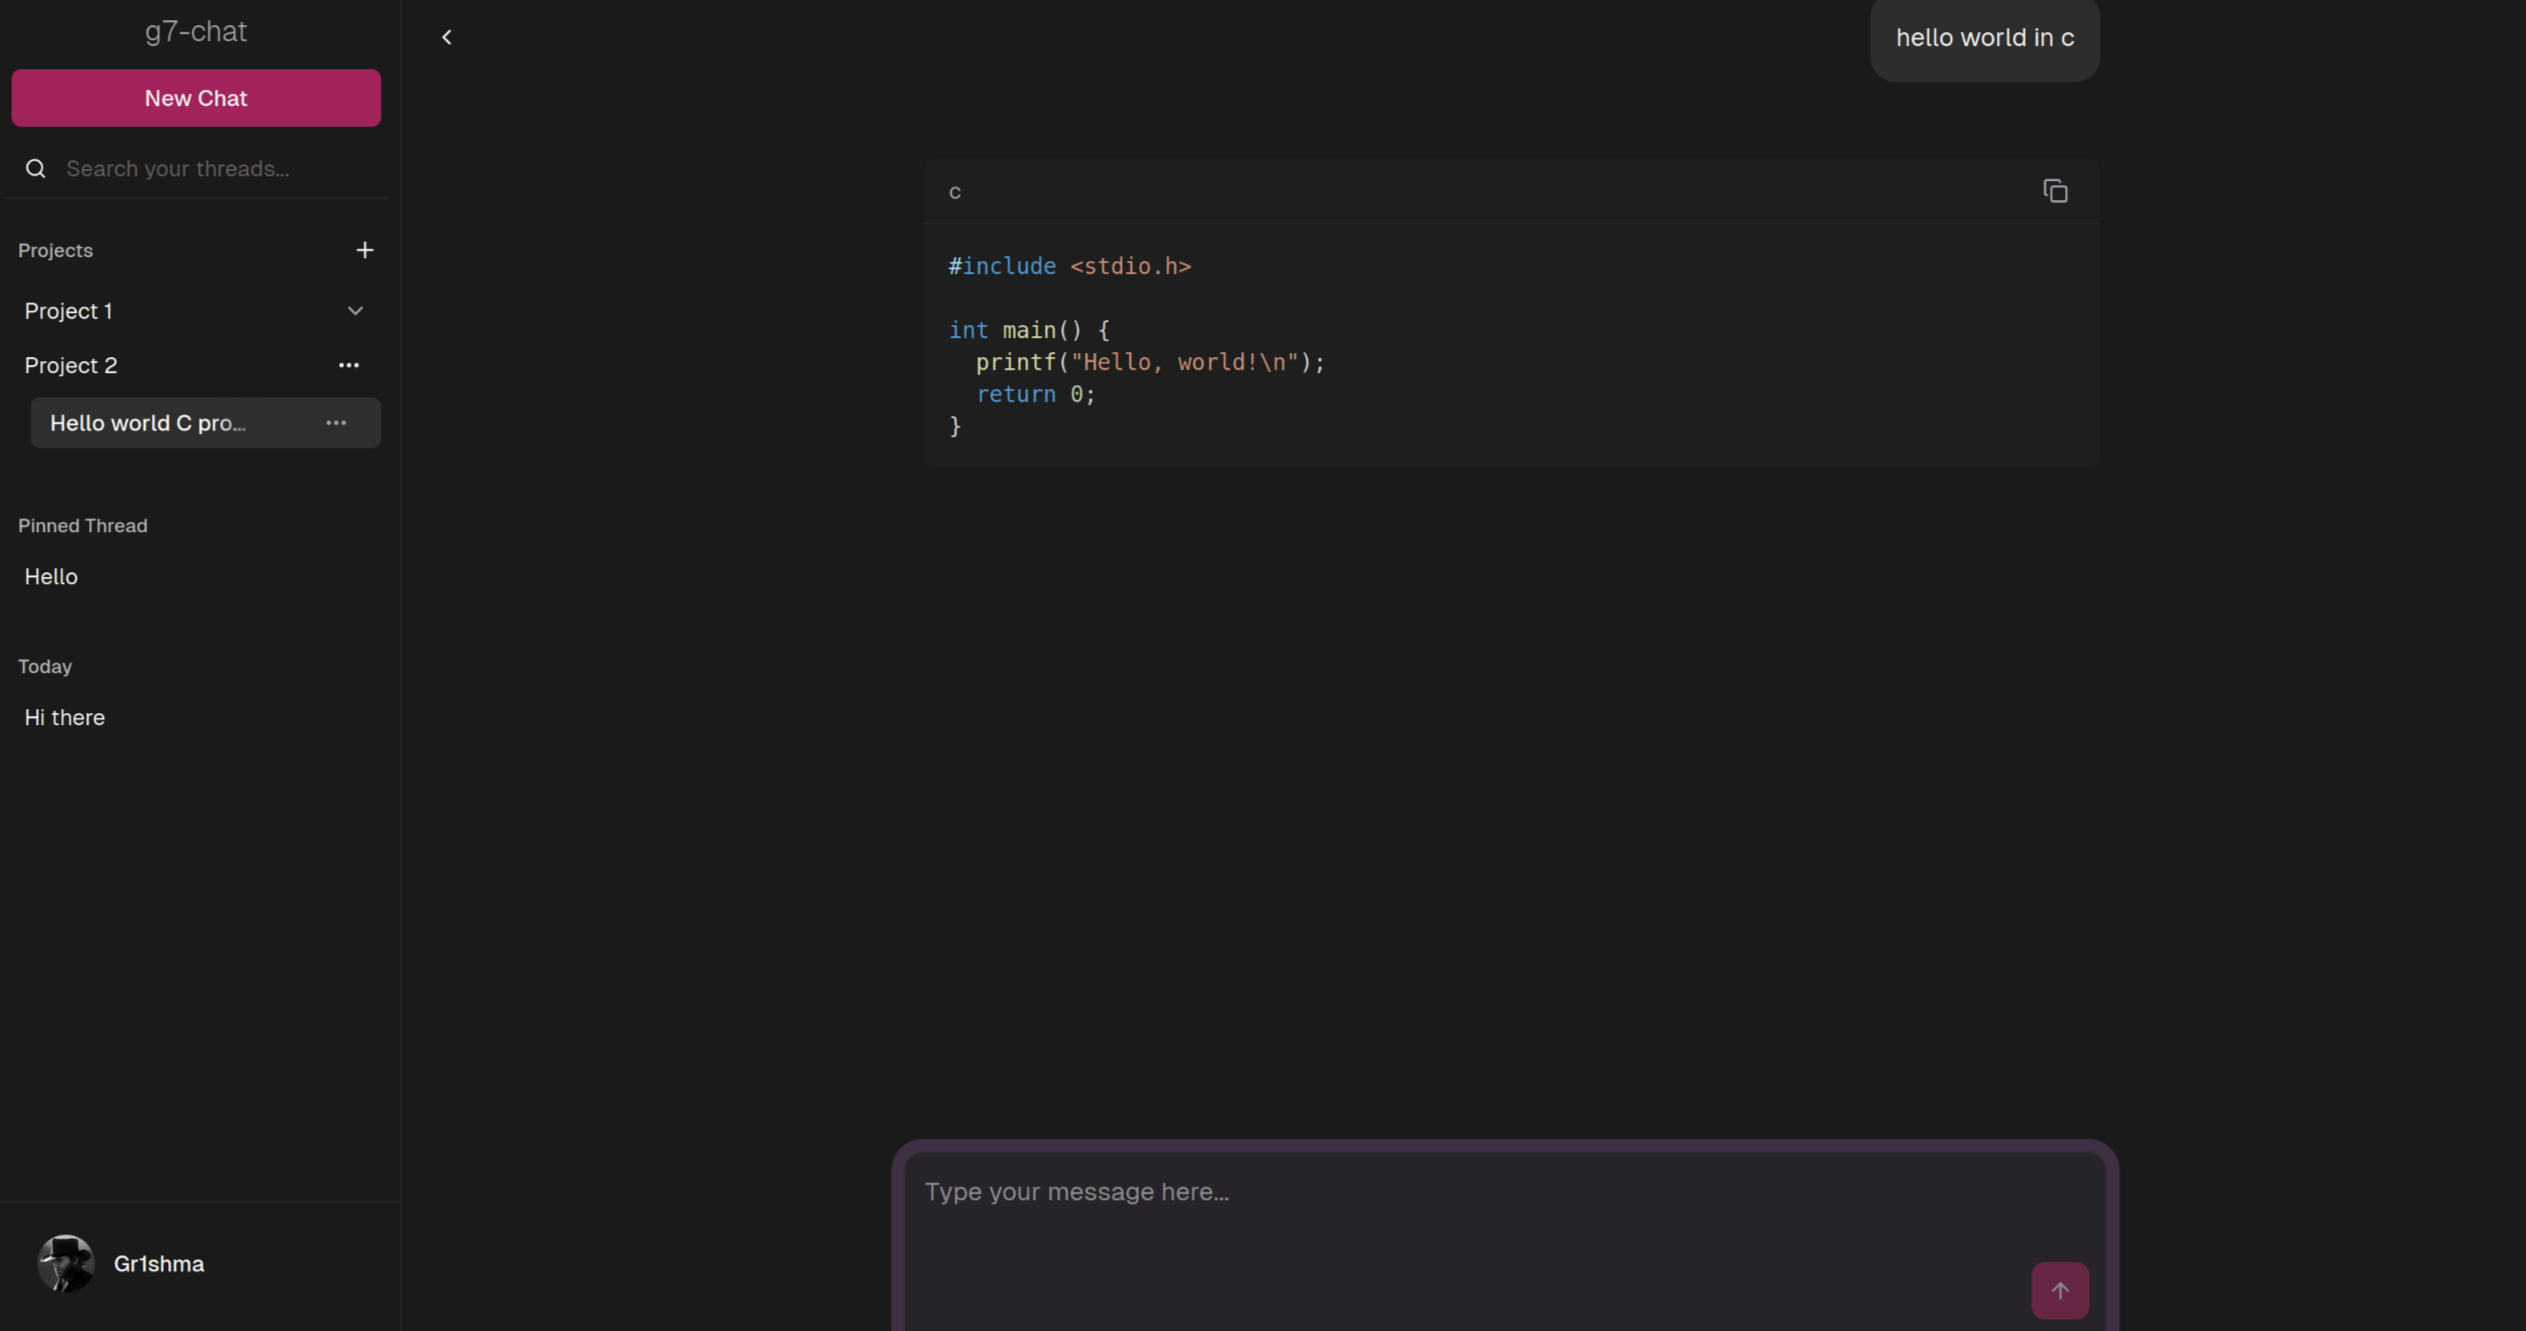
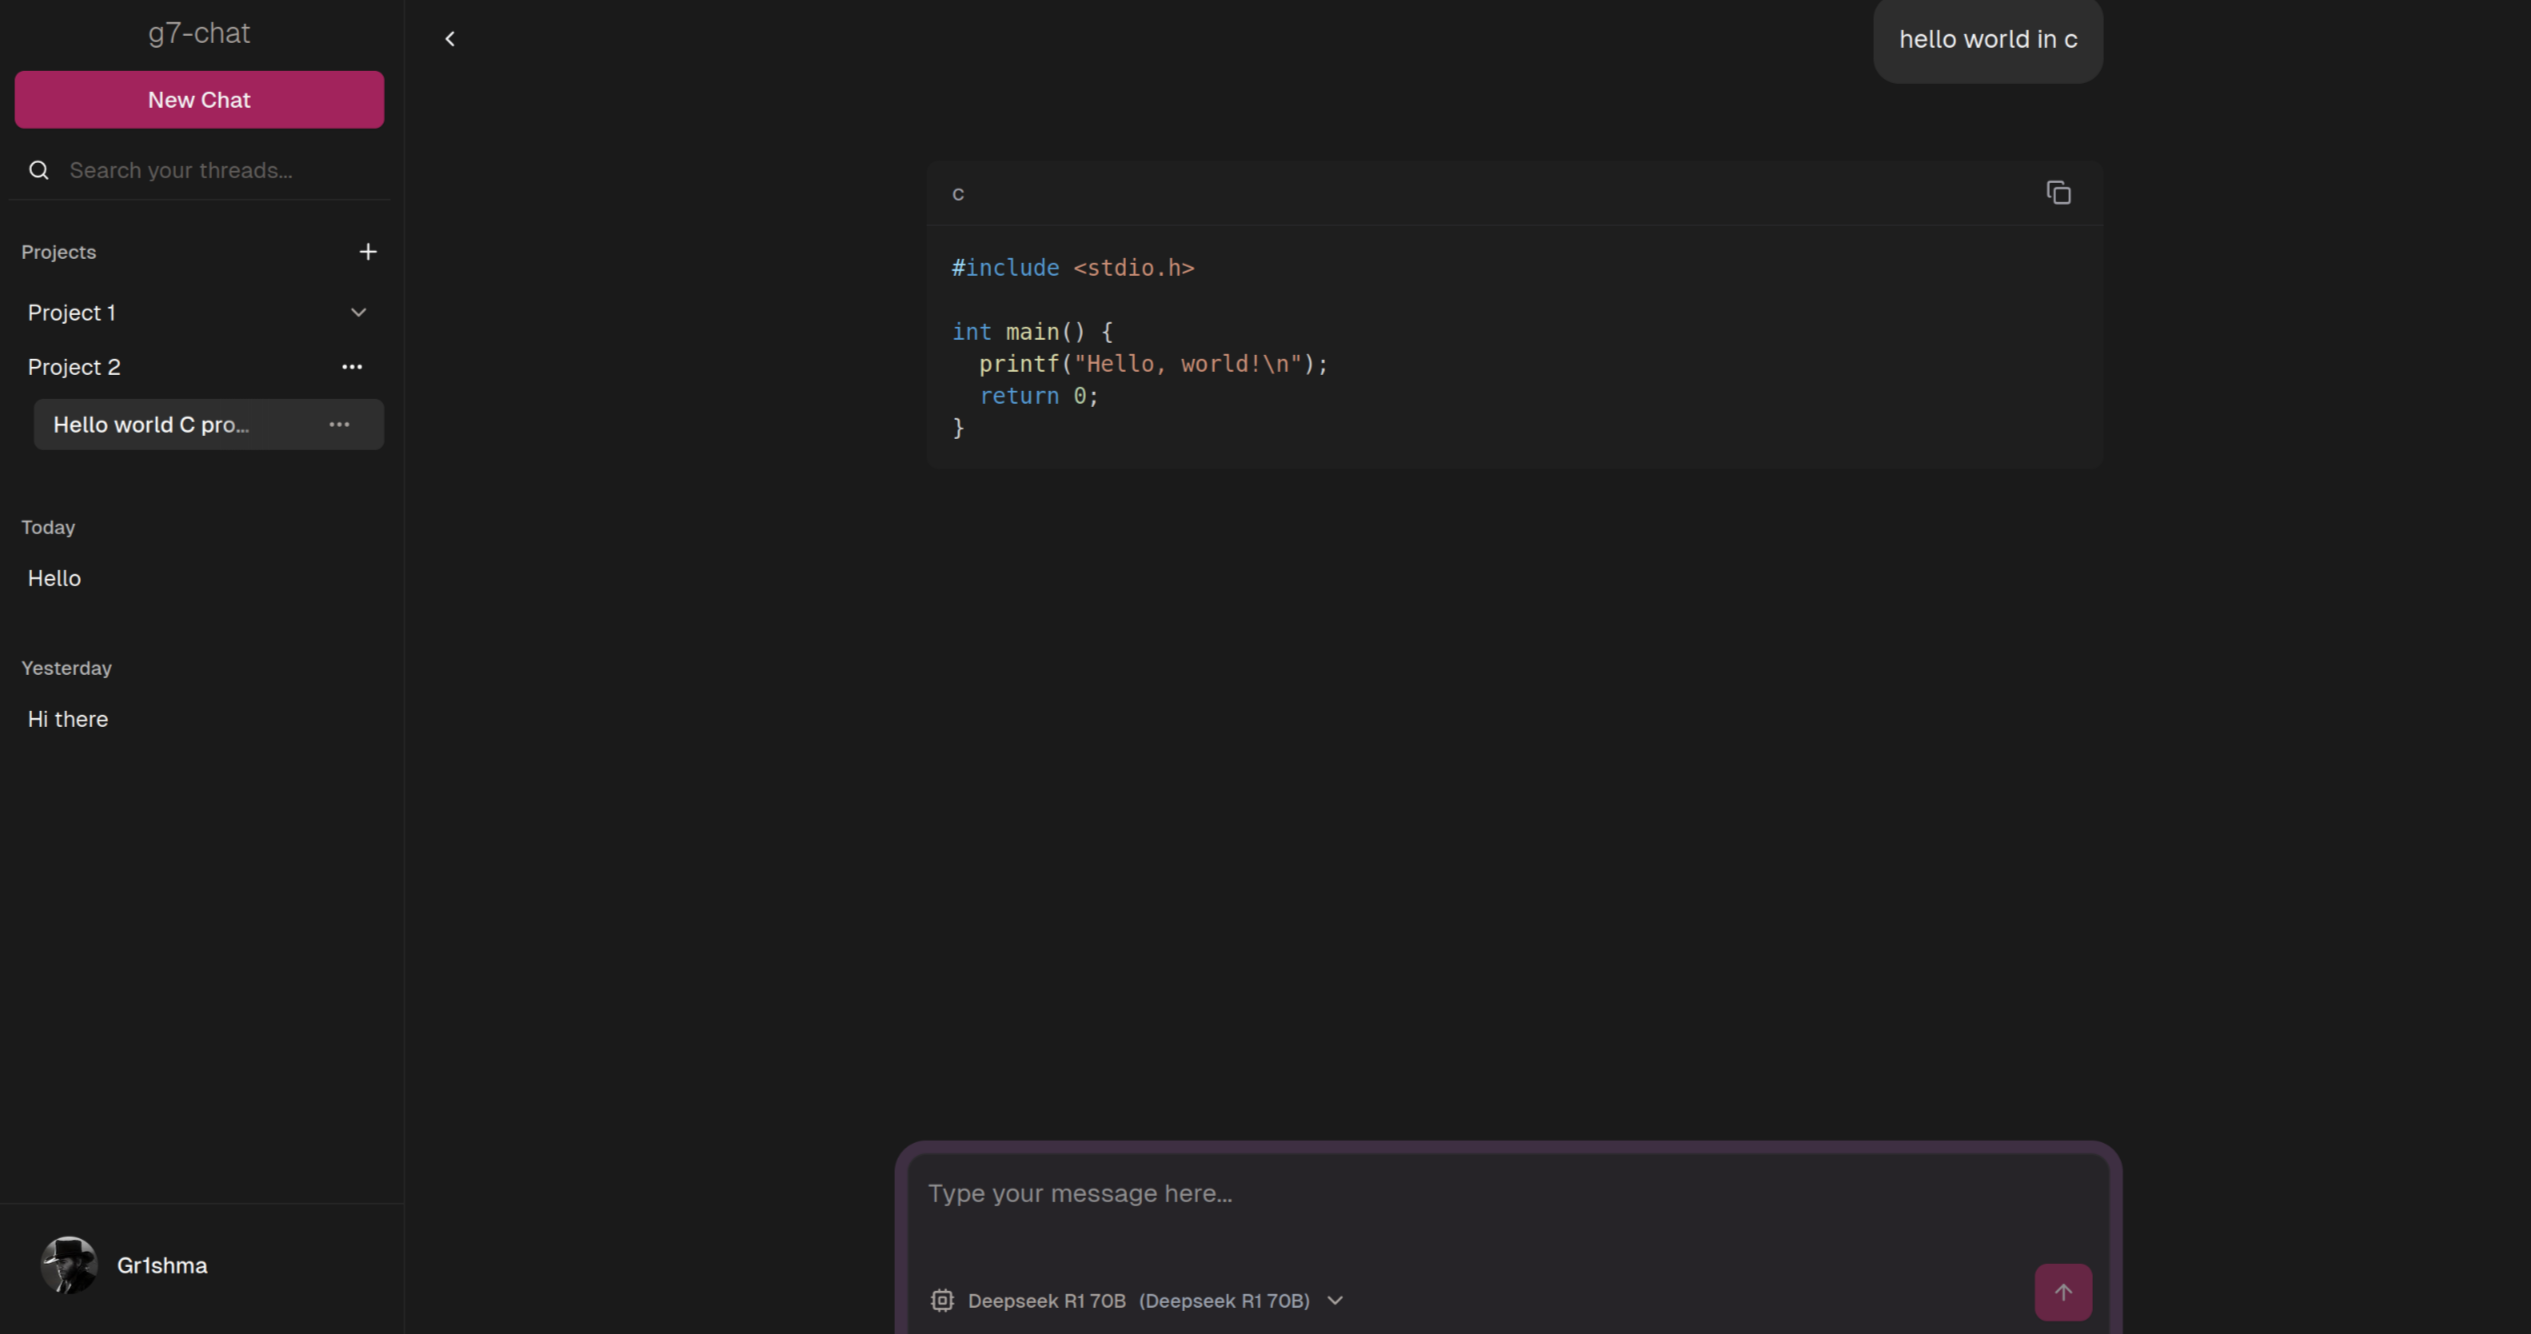
chore: updated readme and preview message

diff --git a/src/server/api/routers/thread.ts b/src/server/api/routers/thread.ts
@@ -17,7 +17,7 @@ export const threadRouter = createTRPCRouter({
                     .from(threads_table)
                     .where(eq(threads_table.id, input));
                 return thread;
-            } catch (error) {
+            } catch {
                 throw new TRPCError({
                     code: "INTERNAL_SERVER_ERROR",
                     message: "Failed to get thread",
@@ -77,7 +77,7 @@ export const threadRouter = createTRPCRouter({
                             ? { id: lastItem.id, updatedAt: lastItem.updatedAt }
                             : null,
                 };
-            } catch (error) {
+            } catch {
                 throw new TRPCError({
                     code: "INTERNAL_SERVER_ERROR",
                     message: "Failed to fetch threads",
@@ -104,7 +104,7 @@ export const threadRouter = createTRPCRouter({
                     title: input.title,
                     projectId: input.projectId,
                 });
-            } catch (error) {
+            } catch {
                 throw new TRPCError({
                     code: "INTERNAL_SERVER_ERROR",
                     message: "Failed to save thread",
@@ -142,7 +142,7 @@ export const threadRouter = createTRPCRouter({
                         message: "Thread not found or unauthorized",
                     });
                 }
-            } catch (error) {
+            } catch {
                 throw new TRPCError({
                     code: "INTERNAL_SERVER_ERROR",
                     message: "Failed to change thread title",
@@ -187,7 +187,7 @@ export const threadRouter = createTRPCRouter({
                         message: "Thread not found or unauthorized",
                     });
                 }
-            } catch (error) {
+            } catch {
                 throw new TRPCError({
                     code: "INTERNAL_SERVER_ERROR",
                     message: "Failed to change projectId of thread",
@@ -226,7 +226,7 @@ export const threadRouter = createTRPCRouter({
                         message: "Thread not found or unauthorized",
                     });
                 }
-            } catch (error) {
+            } catch {
                 throw new TRPCError({
                     code: "INTERNAL_SERVER_ERROR",
                     message: "Failed to toggle pin of thread",
@@ -271,7 +271,7 @@ export const threadRouter = createTRPCRouter({
                         message: "Thread not found or unauthorized",
                     });
                 }
-            } catch (error) {
+            } catch {
                 throw new TRPCError({
                     code: "INTERNAL_SERVER_ERROR",
                     message: "Failed to toggle visibility of thread",
@@ -297,7 +297,7 @@ export const threadRouter = createTRPCRouter({
                             eq(threads_table.userId, userId)
                         )
                     );
-            } catch (error) {
+            } catch {
                 throw new TRPCError({
                     code: "INTERNAL_SERVER_ERROR",
                     message: "Failed to delete thread",

diff --git a/src/server/api/routers/project.ts b/src/server/api/routers/project.ts
@@ -20,7 +20,7 @@ export const projectRouter = createTRPCRouter({
                 .orderBy(asc(projects_table.updatedAt));
 
             return projects;
-        } catch (error) {
+        } catch {
             throw new TRPCError({
                 code: "INTERNAL_SERVER_ERROR",
                 message: "Failed to fetch projects",
@@ -42,7 +42,7 @@ export const projectRouter = createTRPCRouter({
                     title,
                     userId: session.user.id,
                 });
-            } catch (error) {
+            } catch {
                 throw new TRPCError({
                     code: "INTERNAL_SERVER_ERROR",
                     message: "Failed to create project",
@@ -91,7 +91,7 @@ export const projectRouter = createTRPCRouter({
                             eq(projects_table.userId, userId)
                         )
                     );
-            } catch (error) {
+            } catch {
                 throw new TRPCError({
                     code: "INTERNAL_SERVER_ERROR",
                     message: "Failed to delete project",
@@ -129,7 +129,7 @@ export const projectRouter = createTRPCRouter({
                         message: "Project not found or unauthorized",
                     });
                 }
-            } catch (error) {
+            } catch {
                 throw new TRPCError({
                     code: "INTERNAL_SERVER_ERROR",
                     message: "Failed to change title of project",

diff --git a/src/server/api/routers/message.ts b/src/server/api/routers/message.ts
@@ -19,7 +19,7 @@ export const messageRouter = createTRPCRouter({
                     .orderBy(asc(messages_table.createdAt));
 
                 return messages;
-            } catch (error) {
+            } catch {
                 throw new TRPCError({
                     code: "INTERNAL_SERVER_ERROR",
                     message: "Failed to fetch messages for this thread",
@@ -46,7 +46,7 @@ export const messageRouter = createTRPCRouter({
                 }
 
                 return message;
-            } catch (error) {
+            } catch {
                 throw new TRPCError({
                     code: "INTERNAL_SERVER_ERROR",
                     message: "Failed to fetch message",

diff --git a/src/components/code-block.tsx b/src/components/code-block.tsx
@@ -1,6 +1,6 @@
 "use client";
 
-import { CircleCheck, CopyCheckIcon, Copy as CopyIcon } from "lucide-react";
+import { Copy as CopyIcon } from "lucide-react";
 import { Highlight, themes, Prism } from "prism-react-renderer";
 import { useToast } from "~/hooks/use-toast";
 
@@ -22,14 +22,12 @@ require("prismjs/components/prism-erlang");
 require("prismjs/components/prism-pascal");
 
 interface CodeBlockProps {
-    node: any;
     inline: boolean;
     className: string;
     children: any;
 }
 
 export function CodeBlock({
-    node,
     inline,
     className,
     children,

diff --git a/src/app/(thread)/chat/[threadId]/page.tsx b/src/app/(thread)/chat/[threadId]/page.tsx
@@ -27,7 +27,7 @@ export default async function Page({
 }: {
     params: { threadId: string };
 }) {
-    const { threadId } = await params;
+    const { threadId } = params;
 
     const thread = await api.thread.getThreadById(threadId);
 

diff --git a/src/app/api/chat/route.ts b/src/app/api/chat/route.ts
@@ -14,7 +14,6 @@ import {
 import {
     AIProviderSafe,
     getDefaultModel,
-    type ValidModelString,
 } from "~/lib/ai/providers";
 import { appRouter } from "~/server/api/root";
 import { db } from "~/server/db";

diff --git a/README.md b/README.md
@@ -220,7 +220,8 @@ g7-chat requires several environment variables to run properly, especially for a
 | `AUTH_GOOGLE_ID`               | Client ID for Google OAuth provider, used for user login via Google.         | Obtain from [Google Cloud Console Credentials](https://console.cloud.google.com/apis/credentials) |
 | `AUTH_GOOGLE_SECRET`           | Client Secret for Google OAuth provider.                                     | Obtain from Google Cloud Console alongside the client ID                                          |
 | `DATABASE_URL`                 | Connection string to your PostgreSQL database instance.                      | Format: `postgresql://username:password@host:port/database`                                       |
-| `GOOGLE_GENERATIVE_AI_API_KEY` | API key for accessing Vercel’s AI SDK, enabling AI-powered chat features.    | Obtain from [Google Ai Studio](https://aistudio.google.com/apikey)       |
+| `GOOGLE_GENERATIVE_AI_API_KEY` | API key for accessing Google provider in Vercel’s AI SDK   | Obtain from [Google Ai Studio](https://aistudio.google.com/apikey)       |
+| `GROQ_API_KEY` | API key for accessing Groq provider in Vercel’s AI SDK, enabling AI-powered chat features.    | Obtain from [Groq](https://groq.com/)       |
 
 ---
 
@@ -232,6 +233,7 @@ AUTH_GOOGLE_ID="your-google-client-id"
 AUTH_GOOGLE_SECRET="your-google-client-secret"
 DATABASE_URL="postgresql://postgres:password@localhost:5432/g7-chat"
 GOOGLE_GENERATIVE_AI_API_KEY="your-google-generative-ai-api-key"
+GROQ_API_KEY="your-groq-api-key"
 ```
 
 ### How to generate auth secret 
@@ -263,7 +265,7 @@ or refer [Auth.js Setup Environment](https://authjs.dev/getting-started/installa
 
 ## Roadmap 🧭
 
-* [ ] **Model Switching** – Support for multiple AI models with UI to change between them.
+* [x] **Model Switching** – Support for multiple AI models with UI to change between them.
 * [ ] **Export Threads** – Export threads (with all messages) as JSON files for backup or sharing.
 * [ ] **Testing** - Simulate user flows with E2E tests and mock models to validate chat behavior.
 
@@ -276,7 +278,6 @@ or refer [Auth.js Setup Environment](https://authjs.dev/getting-started/installa
 ## License 📄
 
 MIT License – see the [LICENSE](LICENSE) file.
-
 
 ## Contributing
 

diff --git a/TODO.md b/TODO.md
@@ -1,5 +1,5 @@
 # TODO
-- [x] Update Readme
-- [ ] Add Multimodal support
+- [x] Add Multimodal support
+    - [ ] Write in readme about way of adding the new models
 - [ ] Export thread/threads in json or other format (if possible also way to import them)
 - [ ] Testing of user flows
